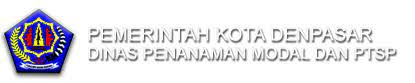
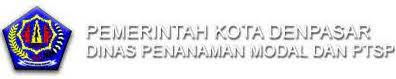
change margin, padding

diff --git a/index.html b/index.html
@@ -74,7 +74,7 @@
 	
 	<section id="home" class="main-banner parallaxie" style="background: url('uploads/banner-03.jpeg')">
 		<div class="heading">
-			<h1>Hello, I am Ayu Widiari</h1>
+			<h1>Hi, I am Ayu Widiari</h1>
 			<p>"If you never try, you will never know what you are capable of"</p>
 			<h1 class="cd-headline clip is-full-width">
 				<span class="cd-words-wrapper">
@@ -173,7 +173,7 @@
 				<div class="col-md-12">
                     <div class="services-inner-box">
 						<div class="ser-icon">
-							<img src="uploads/ptsp.jpeg" width="400" height="100">
+							<img src="uploads/ptsp.jpeg" width="280" height="100">
 						</div>
                         
 						<h2>Internship</h2>
@@ -204,12 +204,12 @@
                             <div class="ser-icon"> 
                                     <img src="uploads/hmti.jpg" width="100" height="100">
                              </div>   
-                                <h2> Information of Technology, Udayana University</h2>
-                                <h3 style="font-size: 15px; font-weight: bold;">Bachelor Degree</h3>
+                                <h2> Information of Technology</h2>
+                                <h3 style="font-size: 15px; font-weight: bold;">Bachelor Degree | Udayana University</h3>
                                 <p style="font-size: 13px; color: black;">2016-2020</p>
-                                <p style="text-align: justify;">I was an Information Technology Student. To be honest, at first I know nothing about coding, how to make web, etc. I also got low score in first semester and got scolded by my academic counselors. I almost quit to learn coding, but then in second semester I promised to myself that I will improve. My first project was when practical work, I create SQL design and a simple calculator using C language. 
+                                <p>I was an Information Technology Student. To be honest, at first I know nothing about coding, how to make web, etc. I also got low score in first semester and got scolded by my academic counselors. I almost quit to learn coding, but then in second semester I promised to myself that I will improve. My first project was when practical work, I create SQL design and a simple calculator using C language. 
                                 After that, my interest grow bigger. I learn other languages such as HTML, CSS, Java, Python, and Javascript.</p>          
-                                <p style="text-align: justify;">In my sixth semester, I got a lecture regarding big data and data mining. I used those topic as my thesis. My thesis entitled "Design and Build a Bali Tourist Attraction Popularity Analysis Engine using Big Data Technology" was published in Jurnal Ilmiah Merpati. 
+                                <p>In my sixth semester, I got a lecture regarding big data and data mining. I used those topic as my thesis. My thesis entitled "Design and Build a Bali Tourist Attraction Popularity Analysis Engine using Big Data Technology" was published in Jurnal Ilmiah Merpati. 
                                 I used python as the main language to code the engine.</p>
 
                     </div>
@@ -231,7 +231,7 @@
 						<button class="active" data-filter="*">All</button>
 						<button data-filter=".gal_a">Testing</button>
 						<button data-filter=".gal_b">Teaching</button>
-						<button data-filter=".gal_c">Internship</button>
+                        <button data-filter=".gal_c">Internship</button>
 					</div>
 				</div>
 			</div>
@@ -298,6 +298,7 @@
     <div id="contact" class="section db">
         <div class="container">
             <div class="section-title text-left">
+                <br>
                 <h3 style="text-align: center;">You can Find Me on</h3>
                 <div class="row">
                     <div class="col-md-12">

diff --git a/style.css b/style.css
@@ -379,7 +379,7 @@ a img.aligncenter {
 }
 .heading p{
 	font-size: 18px;
-	padding: 15px 0px;
+	padding: 15px 20px;
 }
 
 .heading h3{
@@ -539,7 +539,7 @@ xclip
 .section-title {
     display: block;
     position: relative;
-    margin-bottom: 60px;
+    margin-bottom: 40px;
 }
 
 .section-title p {
@@ -555,7 +555,7 @@ xclip
     font-weight: 500;
     line-height: 62px;
     margin: 0 0 25px;
-    padding: 0;
+    padding: 3px;
     text-transform: none;
 }
 

diff --git a/css/responsive.css b/css/responsive.css
@@ -133,9 +133,10 @@
 	}
 	.message-box{
 		margin-bottom: 30px;
+		padding: 15px;
 	}
 	.filter-button-group button{
-		padding: 12px 27px;
+		padding: 12px 10px;
 	}
 	.filter-button-group{
 		text-align: center !important;
